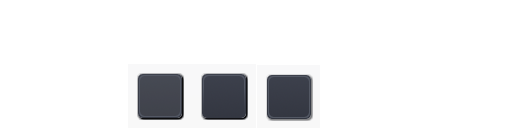
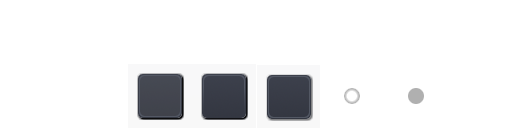
Ui Improvments

Changed region(s): [[0.7812, 0.6875, 0.8438, 0.8125], [0.6562, 0.6875, 0.7188, 0.8125]]

diff --git a/ui/widgets/led.go b/ui/widgets/led.go
@@ -1,0 +1,87 @@
+package widgets
+
+import (
+	"image/color"
+	"stepframe/ui/theme"
+	"time"
+
+	"github.com/ebitenui/ebitenui/widget"
+	"github.com/hajimehoshi/ebiten/v2"
+)
+
+type Led struct {
+	*widget.Widget
+	color, pulseColor color.Color
+	isOn              bool
+	lastPulse         time.Time
+}
+
+func NewLed(isOn bool, color theme.IconColor) *Led {
+	l := &Led{
+		Widget: widget.NewWidget(),
+		color:  theme.Current.IconColors[color],
+		isOn:   isOn,
+	}
+	return l
+}
+
+func (l *Led) GetWidget() *widget.Widget {
+	return l.Widget
+}
+
+func (l *Led) PreferredSize() (int, int) {
+	return theme.Current.LedTheme.Width, theme.Current.LedTheme.Height
+}
+
+func (l *Led) Validate() {
+}
+
+func (l *Led) Render(screen *ebiten.Image) {
+	opt := &ebiten.DrawImageOptions{}
+	opt.GeoM.Translate(
+		float64(l.Widget.Rect.Min.X+theme.Current.LedTheme.OffsetX),
+		float64(l.Widget.Rect.Min.Y+theme.Current.LedTheme.OffsetY),
+	)
+	opt.ColorScale.ScaleWithColor(l.color)
+
+	img := theme.Current.LedTheme.OnImage
+	if !l.isOn {
+		img = theme.Current.LedTheme.OffImage
+	}
+	screen.DrawImage(img, opt)
+
+	if l.pulseColor == nil || l.lastPulse.IsZero() {
+		return
+	}
+
+	elapsed := time.Since(l.lastPulse)
+	if elapsed > theme.Current.LedTheme.PulseDuration {
+		return
+	}
+
+	t := 1.0 - float64(elapsed)/float64(theme.Current.LedTheme.PulseDuration)
+	t = smootherstep(t)
+	t = t * t
+
+	pulseOpt := &ebiten.DrawImageOptions{}
+	pulseOpt.GeoM.Translate(
+		float64(l.Widget.Rect.Min.X+theme.Current.LedTheme.OffsetX),
+		float64(l.Widget.Rect.Min.Y+theme.Current.LedTheme.OffsetY),
+	)
+	pulseOpt.ColorScale.ScaleWithColor(l.pulseColor)
+	pulseOpt.ColorScale.ScaleAlpha(float32(t))
+
+	screen.DrawImage(theme.Current.LedTheme.OnImage, pulseOpt)
+}
+
+func (l *Led) SetPulseColor(color theme.IconColor) {
+	l.pulseColor = theme.Current.IconColors[color]
+}
+
+func (l *Led) SetColor(color theme.IconColor) {
+	l.color = theme.Current.IconColors[color]
+}
+
+func (l *Led) Pulse() {
+	l.lastPulse = time.Now()
+}

diff --git a/ui/menubar.go b/ui/menubar.go
@@ -11,7 +11,7 @@ import (
 
 type TopBar struct {
 	widget.Containerer
-	beatLed *widgets.Icon
+	beatLed *widgets.Led
 
 	playIcon  *widgets.Icon
 	playLabel *widget.Text
@@ -27,9 +27,8 @@ func NewTopBar(sequencer *seq.Sequencer) *TopBar {
 	}
 
 	// BPM LED
-	t.beatLed = widgets.NewIcon(theme.IconLed, theme.IconSizeMedium)
-	t.beatLed.SetColor(theme.IconColorIdle)
-	t.beatLed.SetPulseColor(theme.IconColorOn)
+	t.beatLed = widgets.NewLed(true, theme.IconColorIdle)
+	t.beatLed.SetPulseColor(theme.IconColorDefault)
 
 	// Add track
 	addBtn := widgets.NewButton(func() {
@@ -50,7 +49,7 @@ func NewTopBar(sequencer *seq.Sequencer) *TopBar {
 			sequencer.TryCommand(seq.Command{Id: seq.CmdPlay})
 		}
 	})
-	playButton.AddChild(t.playIcon, t.playLabel)
+	playButton.AddChild(t.playIcon, t.playLabel, t.beatLed)
 
 	// Stop button
 	stopIcon := widgets.NewIcon(theme.IconStop, theme.IconSizeMedium)
@@ -63,7 +62,7 @@ func NewTopBar(sequencer *seq.Sequencer) *TopBar {
 	// Place widgets
 	left, center, right := t.getBox(), t.getBox(), t.getBox()
 	left.AddChild(addBtn)
-	center.AddChild(t.beatLed, playButton, stopButton)
+	center.AddChild(playButton, stopButton)
 	right.AddChild(widgets.NewLabel("BPM 120"), widgets.NewLabel("BPB 4"))
 	t.AddChild(left, center, right)
 
@@ -78,11 +77,17 @@ func (t *TopBar) HandleEvent(event seq.Event) {
 	case seq.EvBeat:
 		t.beatLed.Pulse()
 	case seq.EvPaused, seq.EvStopped:
+		if event.Id == seq.EvPaused {
+			t.beatLed.SetColor(theme.IconColorArmed)
+		} else {
+			t.beatLed.SetColor(theme.IconColorIdle)
+		}
 		t.playing = false
 		t.playIcon.SetIcon(theme.IconPlay)
 		t.playLabel.Label = "Play"
 		t.Containerer.RequestRelayout()
 	case seq.EvPlaying:
+		t.beatLed.SetColor(theme.IconColorOn)
 		t.playing = true
 		t.playIcon.SetIcon(theme.IconPause)
 		t.playLabel.Label = "Pause"

diff --git a/ui/track_commands.go b/ui/track_commands.go
@@ -11,7 +11,7 @@ import (
 
 type TrackCommands struct {
 	widget.Containerer
-	playPulse, recordPulse *widgets.Icon
+	playPulse, recordPulse *widgets.Led
 	playIcon               *widgets.Icon
 	state                  *TrackState
 }
@@ -22,13 +22,13 @@ func NewTrackCommands(state *TrackState) *TrackCommands {
 	// Play button
 	playBtn := widgets.NewButton(state.TogglePlay)
 	tc.playIcon = widgets.NewIcon(theme.IconPlay, theme.IconSizeMedium)
-	tc.playPulse = widgets.NewIcon(theme.IconLed, theme.IconSizeMedium)
+	tc.playPulse = widgets.NewLed(true, theme.IconColorNone)
 	playBtn.AddChild(tc.playIcon, tc.playPulse)
 
 	// Record button
 	recordBtn := widgets.NewButton(state.ToggleRecord)
 	recordIcon := widgets.NewIcon(theme.IconRecord, theme.IconSizeMedium)
-	tc.recordPulse = widgets.NewIcon(theme.IconLed, theme.IconSizeMedium)
+	tc.recordPulse = widgets.NewLed(true, theme.IconColorNone)
 	recordBtn.AddChild(recordIcon, tc.recordPulse)
 
 	// Delete button

diff --git a/ui/theme/default.go b/ui/theme/default.go
@@ -245,7 +245,7 @@ func SetDefaultTheme() {
 			IconRecord:    tileSheet.GetTile(TileRecord),
 			IconStop:      tileSheet.GetTile(TileStop),
 			IconButton:    tileSheet.GetTile(TileButton),
-			IconLed:       tileSheet.GetTile(TileLed),
+			IconLed:       tileSheet.GetTile(TileLedOff),
 			IconNone:      nil,
 		},
 		IconSizes: IconSizes{
@@ -278,6 +278,15 @@ func SetDefaultTheme() {
 			Pulse:         NewNineSliceRounded(cPulse, 10),
 			PulseStrength: 0.45,
 			PulseDuration: 150 * time.Millisecond,
+		},
+		LedTheme: &LedTheme{
+			OnImage:       tileSheet.GetTile(TileLedOn),
+			OffImage:      tileSheet.GetTile(TileLedOff),
+			OffsetX:       -24,
+			OffsetY:       -24,
+			Width:         16,
+			Height:        16,
+			PulseDuration: 300 * time.Millisecond,
 		},
 	}
 

diff --git a/ui/theme/sheet.go b/ui/theme/sheet.go
@@ -10,7 +10,7 @@ import (
 	"github.com/hajimehoshi/ebiten/v2/ebitenutil"
 )
 
-// SRC: https://feathericons.com/
+// SRC: https://feathericons.com/ & https://iconoir.com/
 //
 //go:embed icons.png
 var sheet []byte
@@ -31,7 +31,8 @@ const (
 	TileButtonHover
 	TileButton
 	TileButtonPressed
-	TileLed
+	TileLedOn
+	TileLedOff
 )
 
 type TileMap map[Tile]struct{ x, y float64 }
@@ -50,7 +51,8 @@ var tileMap = TileMap{
 	TileButtonHover:   {2, 1},
 	TileButton:        {3, 1},
 	TileButtonPressed: {4, 1},
-	TileLed:           {5, 1},
+	TileLedOn:         {5, 1},
+	TileLedOff:        {6, 1},
 }
 
 type Sheet struct {

diff --git a/ui/theme/theme.go b/ui/theme/theme.go
@@ -20,6 +20,7 @@ type Theme struct {
 	IconColors    IconColors
 	MainMenuTheme *MainMenuTheme
 	PlayTheme     *PlayTheme
+	LedTheme      *LedTheme
 }
 
 type MainMenuTheme struct {
@@ -45,6 +46,14 @@ type PlayTheme struct {
 	Pulse         *image.NineSlice
 	PulseStrength float64
 	PulseDuration time.Duration
+}
+
+type LedTheme struct {
+	OnImage          *ebiten.Image
+	OffImage         *ebiten.Image
+	OffsetX, OffsetY int
+	Width, Height    int
+	PulseDuration    time.Duration
 }
 
 type Icons map[Icon]*ebiten.Image
